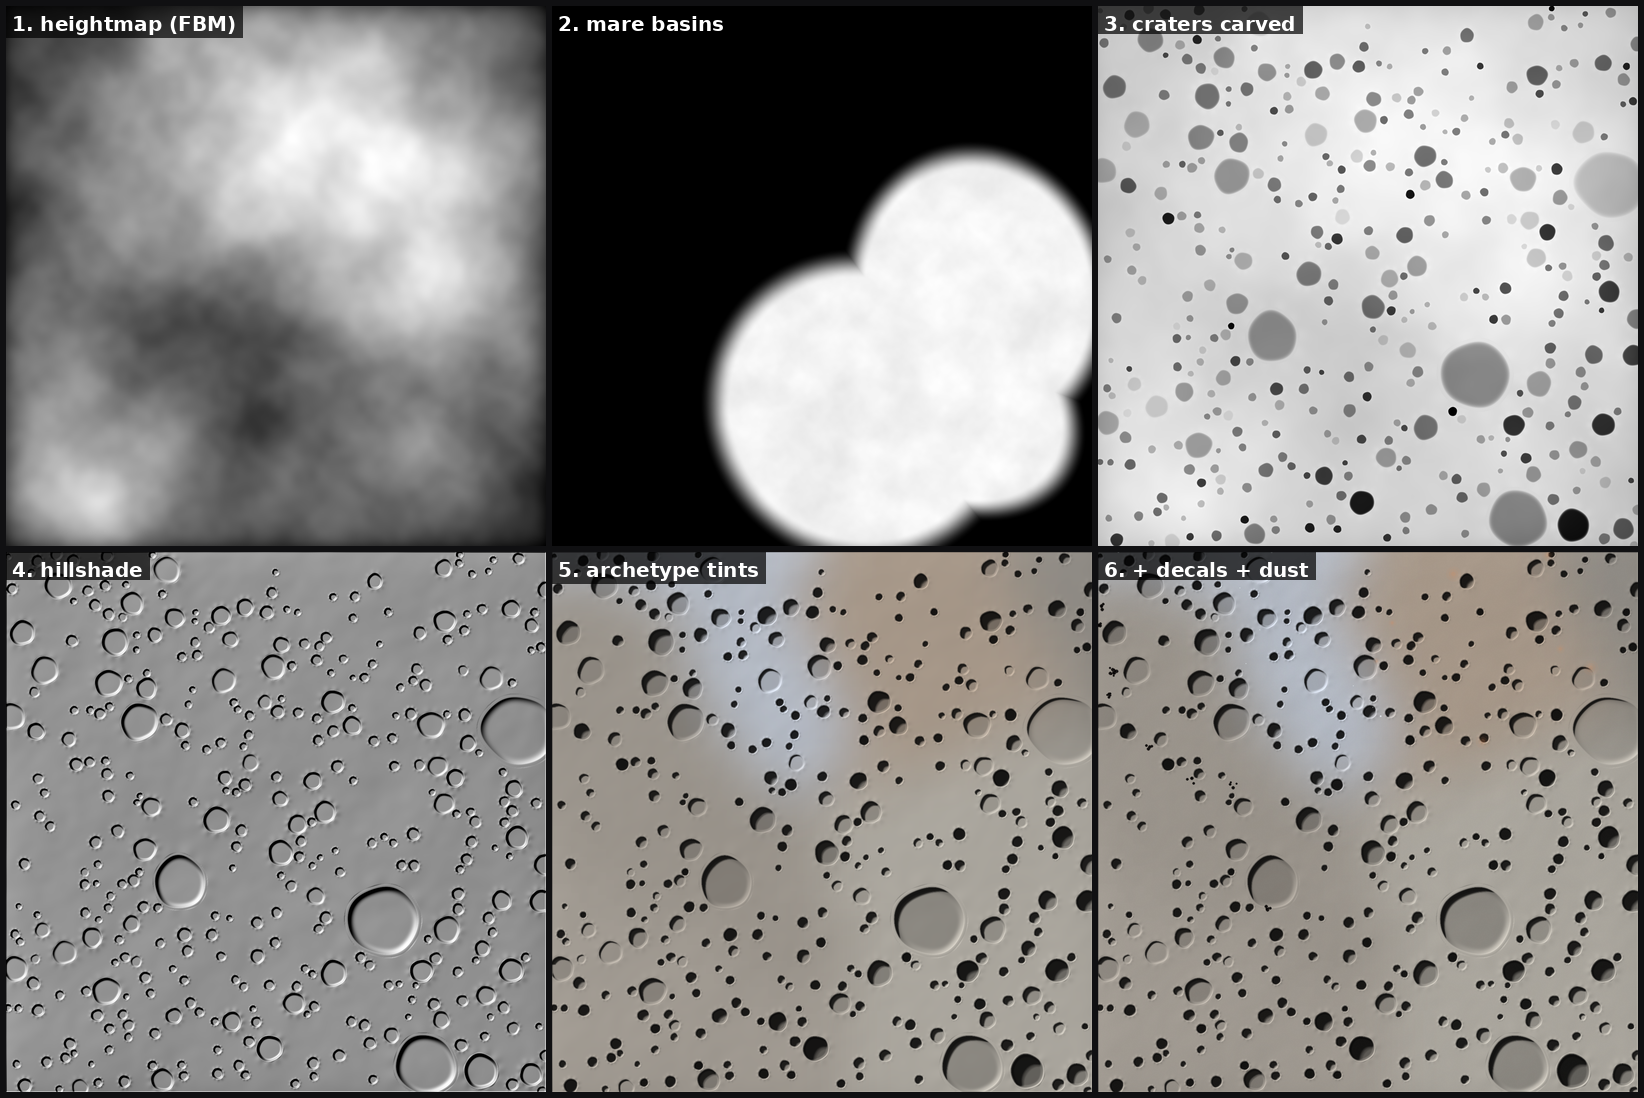
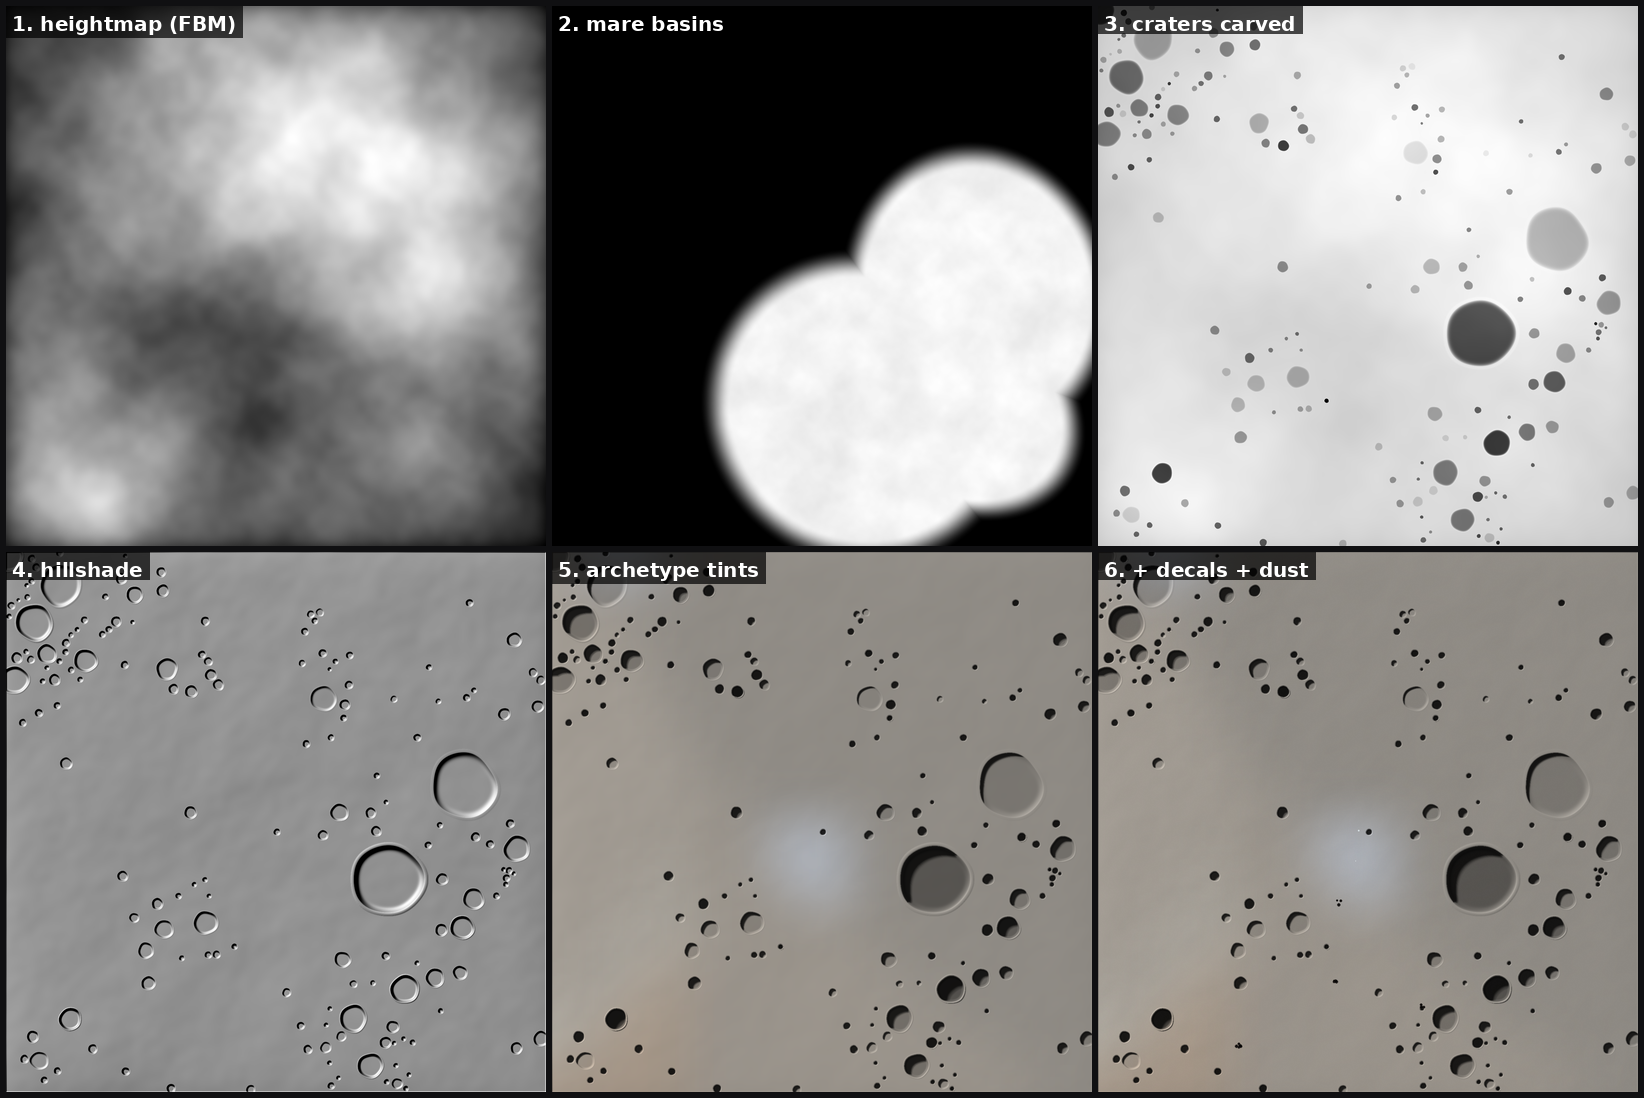
prototype: Bridson + secondary clusters, sparser planet, no ejecta
User asked for option B: less crowded planet, more natural distribution
via Bridson Poisson disc + secondary clusters, ejecta dropped.

  * sample_craters() rewritten:
      - Pass 1: primary placement. 60% of attempts place near a random
        already-placed crater (Bridson growth), 40% try a fully random
        location (so Bridson clumps don't trap us in one corner). Same
        rim-distance constraint as before, separation tightened to 1.15
        for visual breathing room.
      - Pass 2: for every primary with r > 35, inject 4-8 secondaries
        in an annulus 1.8-4r around it. 55% of secondaries are biased
        along one of two random "ray" directions — gives the
        ejecta-chain look real LRO photos show. Secondaries get a
        younger age distribution than the background field.
  * Counts cut hard: 60 small + 25 med + 4 big primaries = 89 primaries
    (was 351). Plus ~35 secondaries from the 4 big ones. Net ~120,
    about 1/3 of the previous density.
  * apply_craters(): ejecta carving block deleted. Geometry now stops
    at d=1.10 r (rim only). The visible "overlap" the user kept seeing
    was ejecta blankets touching each other.
  * Seed-variant + archetype-tile renderers updated to match the new
    crater density, otherwise they'd swamp the new pipeline.

https://claude.ai/code/session_014xZZbBkCGkgHdGrMSpJjDx

diff --git a/prototypes/planet_visuals/generate.py b/prototypes/planet_visuals/generate.py
@@ -197,58 +197,132 @@ class Crater:
     has_peak: bool
 
 
-def sample_craters(shape, rng, count_small=260, count_med=85, count_big=6,
-                   min_separation=1.05):
-    """Reject-sample crater positions so no two craters overlap.
+def sample_craters(shape, rng, count_small=60, count_med=25, count_big=4,
+                   min_separation=1.15):
+    """Place primary craters via Bridson-style Poisson disc, then inject
+    secondary craters in clusters around large primaries.
 
-    Place big craters first (they claim the most space), then medium,
-    then small. Each new crater must sit at least
-    `min_separation * (r1+r2)` from every existing crater — i.e. their
-    rims don't touch. If we can't place a crater after a budget of
-    attempts, drop it (the planet is full).
+    Real lunar surfaces aren't uniform random; they show two patterns
+    that pure rejection sampling can't produce:
+
+      * even coverage at small scales (no big empty zones, no clumps),
+        because saturation equilibrium fills in any gaps;
+      * small-crater *clusters* radiating from each large primary impact,
+        formed by ejecta landing 2-5× the primary radius away. These
+        often align along 1-2 "ray" directions.
+
+    Bridson's algorithm gives us (1) by trying to place each new crater
+    near an already-placed one (preferred) or at a fully random spot
+    (occasional, to escape clumping). (2) is a second pass: for each
+    big-enough primary, generate a few small secondaries in its annulus.
     """
     h, w = shape
-    specs = []
+
+    primary_sizes = []
     for n, rmin, rmax in [(count_big, 42, 110),
                           (count_med, 18, 42),
                           (count_small, 8, 18)]:
         for _ in range(n):
-            specs.append((
-                float(rng.uniform(rmin, rmax)),
-                float(rng.beta(2.0, 1.5)),
-                bool(rng.random() < 0.25),
-            ))
+            primary_sizes.append(float(rng.uniform(rmin, rmax)))
+    primary_sizes.sort(reverse=True)  # big first claims space
 
-    craters: list[Crater] = []
-    cx_arr = np.empty(0, dtype=np.float32)
-    cy_arr = np.empty(0, dtype=np.float32)
-    cr_arr = np.empty(0, dtype=np.float32)
-    max_attempts = 60
-    dropped = 0
-    for r, age, has_peak in specs:
-        placed = False
-        for _ in range(max_attempts):
-            cx = float(rng.uniform(0, w))
-            cy = float(rng.uniform(0, h))
-            if cr_arr.size == 0:
-                placed = True
-            else:
-                d2 = (cx_arr - cx) ** 2 + (cy_arr - cy) ** 2
-                min_d = (cr_arr + r) * min_separation
-                if not np.any(d2 < min_d * min_d):
-                    placed = True
-            if placed:
-                craters.append(Crater(cx=cx, cy=cy, r=r,
-                                      age=age, has_peak=has_peak))
-                cx_arr = np.append(cx_arr, cx)
-                cy_arr = np.append(cy_arr, cy)
-                cr_arr = np.append(cr_arr, r)
+    placed: list[Crater] = []
+
+    def fits(x, y, r):
+        if not (0 <= x < w and 0 <= y < h):
+            return False
+        for c in placed:
+            if (c.cx - x) ** 2 + (c.cy - y) ** 2 \
+                    < ((c.r + r) * min_separation) ** 2:
+                return False
+        return True
+
+    def try_place(x, y, r, age, has_peak):
+        if fits(x, y, r):
+            placed.append(Crater(cx=x, cy=y, r=r,
+                                 age=age, has_peak=has_peak))
+            return True
+        return False
+
+    # --- pass 1: primaries via Bridson-like growth -----------------------
+    # Place the first one anywhere.
+    if primary_sizes:
+        r0 = primary_sizes[0]
+        for _ in range(100):
+            if try_place(float(rng.uniform(0, w)),
+                          float(rng.uniform(0, h)),
+                          r0,
+                          float(rng.beta(2.0, 1.5)),
+                          bool(rng.random() < 0.25)):
                 break
-        if not placed:
-            dropped += 1
-    if dropped:
-        print(f"  (dropped {dropped} craters that wouldn't fit)")
-    return craters
+
+    dropped_primary = 0
+    for r in primary_sizes[1:]:
+        success = False
+        for _ in range(60):
+            if placed and rng.random() < 0.6:
+                # Bridson-style: place near a random already-placed crater
+                seed = placed[int(rng.integers(0, len(placed)))]
+                d_min = (seed.r + r) * min_separation
+                d_max = d_min * 2.5
+                d = float(rng.uniform(d_min, d_max))
+                ang = float(rng.uniform(0, math.tau))
+                x = seed.cx + d * math.cos(ang)
+                y = seed.cy + d * math.sin(ang)
+            else:
+                # Global random — breaks Bridson clumping in dead zones
+                x = float(rng.uniform(0, w))
+                y = float(rng.uniform(0, h))
+            if try_place(x, y, r,
+                          float(rng.beta(2.0, 1.5)),
+                          bool(rng.random() < 0.25)):
+                success = True
+                break
+        if not success:
+            dropped_primary += 1
+
+    n_primary = len(placed)
+
+    # --- pass 2: secondary clusters around big primaries -----------------
+    # Snapshot the primaries before injecting secondaries; we don't
+    # want secondaries spawning more secondaries.
+    primaries_snapshot = list(placed)
+    dropped_secondary = 0
+    for p in primaries_snapshot:
+        if p.r < 35:
+            continue
+        n_secondaries = int(rng.integers(4, 9))
+        # Two preferred ray directions for chain effect.
+        ray_angles = (float(rng.uniform(0, math.tau)),
+                      float(rng.uniform(0, math.tau)))
+        for _ in range(n_secondaries):
+            sr = float(rng.uniform(4.0, 11.0))
+            success = False
+            for _ in range(25):
+                if rng.random() < 0.55:
+                    # Along a ray, with a tight angular spread.
+                    base = ray_angles[int(rng.integers(0, 2))]
+                    ang = base + float(rng.normal(0.0, 0.35))
+                else:
+                    ang = float(rng.uniform(0, math.tau))
+                d = p.r * float(rng.uniform(1.8, 4.0))
+                x = p.cx + d * math.cos(ang)
+                y = p.cy + d * math.sin(ang)
+                # Secondaries are typically younger / fresher than the
+                # background primary population (they formed in the
+                # primary's impact event).
+                age = float(rng.beta(1.5, 2.8))
+                if try_place(x, y, sr, age, False):
+                    success = True
+                    break
+            if not success:
+                dropped_secondary += 1
+
+    n_secondary = len(placed) - n_primary
+    print(f"  placed {n_primary} primaries + {n_secondary} secondaries"
+          f" (dropped {dropped_primary} primaries, "
+          f"{dropped_secondary} secondaries)")
+    return placed
 
 
 def apply_craters(height, craters, rng=None):
@@ -267,12 +341,14 @@ def apply_craters(height, craters, rng=None):
     if rng is None:
         rng = np.random.default_rng(0)
     h, w = height.shape
+    # Ejecta blanket disabled — was visually reading as crater-overlap
+    # at the user's preferred zoom. Carving stops at the rim (1.05 r).
+    extent = 1.10
     for c in craters:
-        ej = 1.8
-        x0 = max(0, int(c.cx - c.r * ej))
-        x1 = min(w, int(c.cx + c.r * ej) + 1)
-        y0 = max(0, int(c.cy - c.r * ej))
-        y1 = min(h, int(c.cy + c.r * ej) + 1)
+        x0 = max(0, int(c.cx - c.r * extent))
+        x1 = min(w, int(c.cx + c.r * extent) + 1)
+        y0 = max(0, int(c.cy - c.r * extent))
+        y1 = min(h, int(c.cy + c.r * extent) + 1)
         if x1 <= x0 or y1 <= y0:
             continue
         yy, xx = np.mgrid[y0:y1, x0:x1].astype(np.float32)
@@ -315,7 +391,6 @@ def apply_craters(height, craters, rng=None):
         floor_mask = d < 0.70
         wall_mask = (d >= 0.70) & (d < 0.95)
         rim_mask = (d >= 0.95) & (d < 1.05)
-        ejecta_mask = (d >= 1.05) & (d < ej)
 
         delta = np.zeros_like(d, dtype=np.float32)
         delta[floor_mask] = depth_amp
@@ -327,11 +402,6 @@ def apply_craters(height, craters, rng=None):
         delta[wall_mask] = depth_amp * (1.0 - wu ** wall_p)
         rim_d = d[rim_mask]
         delta[rim_mask] = rim_amp * np.exp(-((rim_d - 1.00) / 0.05) ** 2)
-        ed = d[ejecta_mask]
-        ea = ang[ejecta_mask]
-        ej_break = 0.3 + 0.7 * np.sin(ea * 5.0 + a1) ** 2
-        delta[ejecta_mask] = 0.020 * sharp * np.exp(
-            -((ed - 1.05) / 0.35) ** 2) * ej_break
 
         # (Central peaks intentionally omitted: a bare Gaussian dome on
         # a flat floor reads as an unwanted bump, not a real complex-
@@ -692,7 +762,7 @@ def render_archetype_tiles():
         h_with = h - 0.3 * mare
         h_with = apply_craters(h_with, sample_craters(
             (tile_px, tile_px), local_rng,
-            count_small=80, count_med=18, count_big=2), local_rng)
+            count_small=20, count_med=8, count_big=1), local_rng)
         sh = hillshade(h_with, z_factor=35.0, smooth_px=1.0)
         cast = cast_shadows(h_with, z_factor=35.0, max_distance_px=40.0)
         arch_idx = ARCHETYPE_ORDER.index(arch_name)
@@ -814,7 +884,7 @@ def render_seed_variants():
         h2 = height - 0.20 * mare
         h2 = apply_craters(h2, sample_craters(
             shape, rng,
-            count_small=200, count_med=40, count_big=6), rng)
+            count_small=40, count_med=15, count_big=3), rng)
         sh = hillshade(h2, z_factor=35.0, smooth_px=1.0)
         cast = cast_shadows(h2, z_factor=35.0, max_distance_px=40.0)
         ag = assign_archetype_grid(rng)
